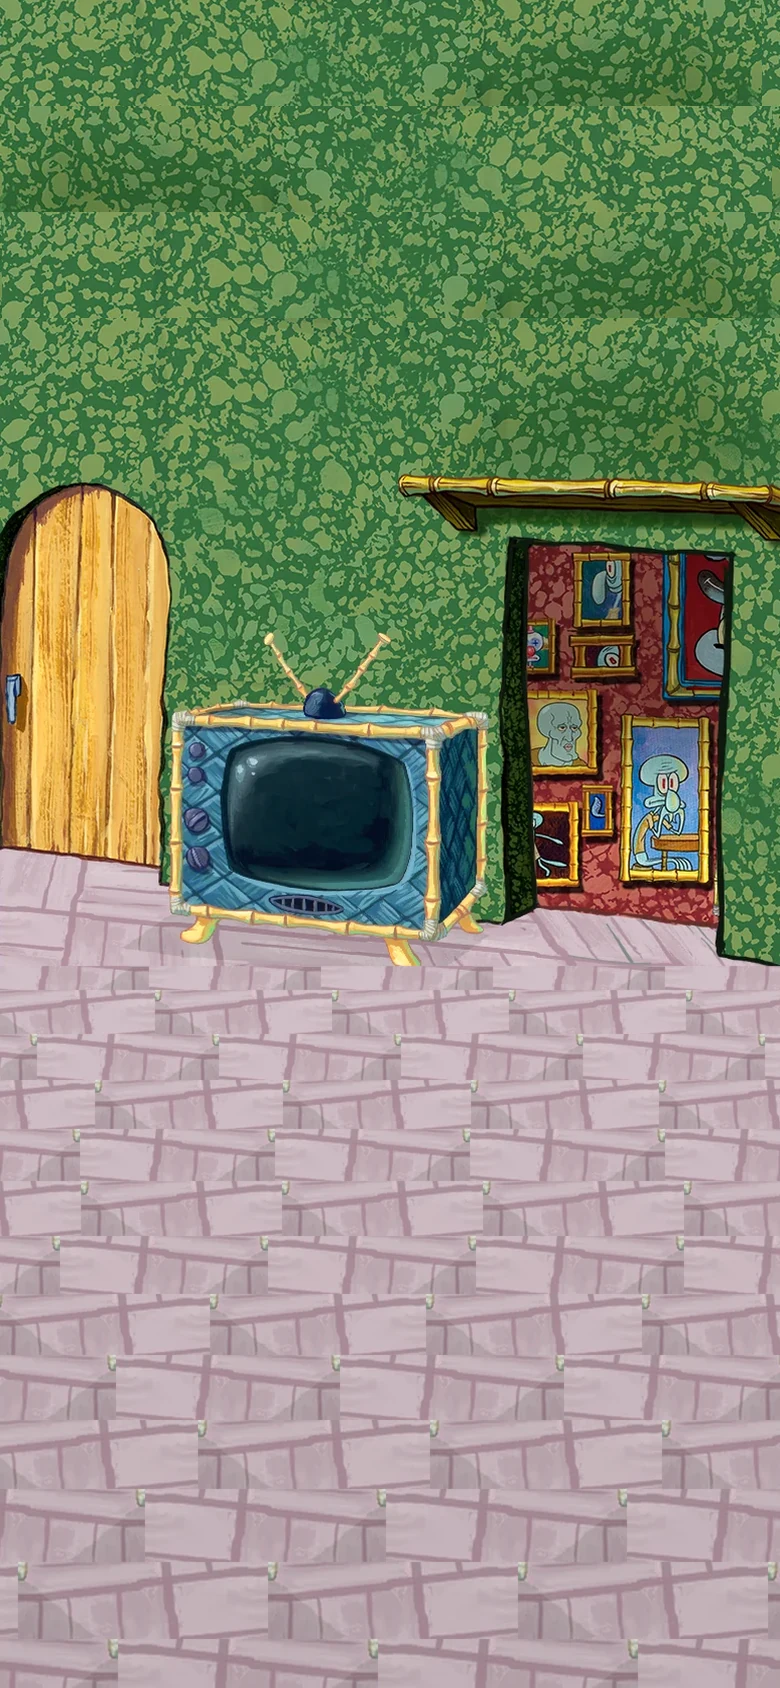
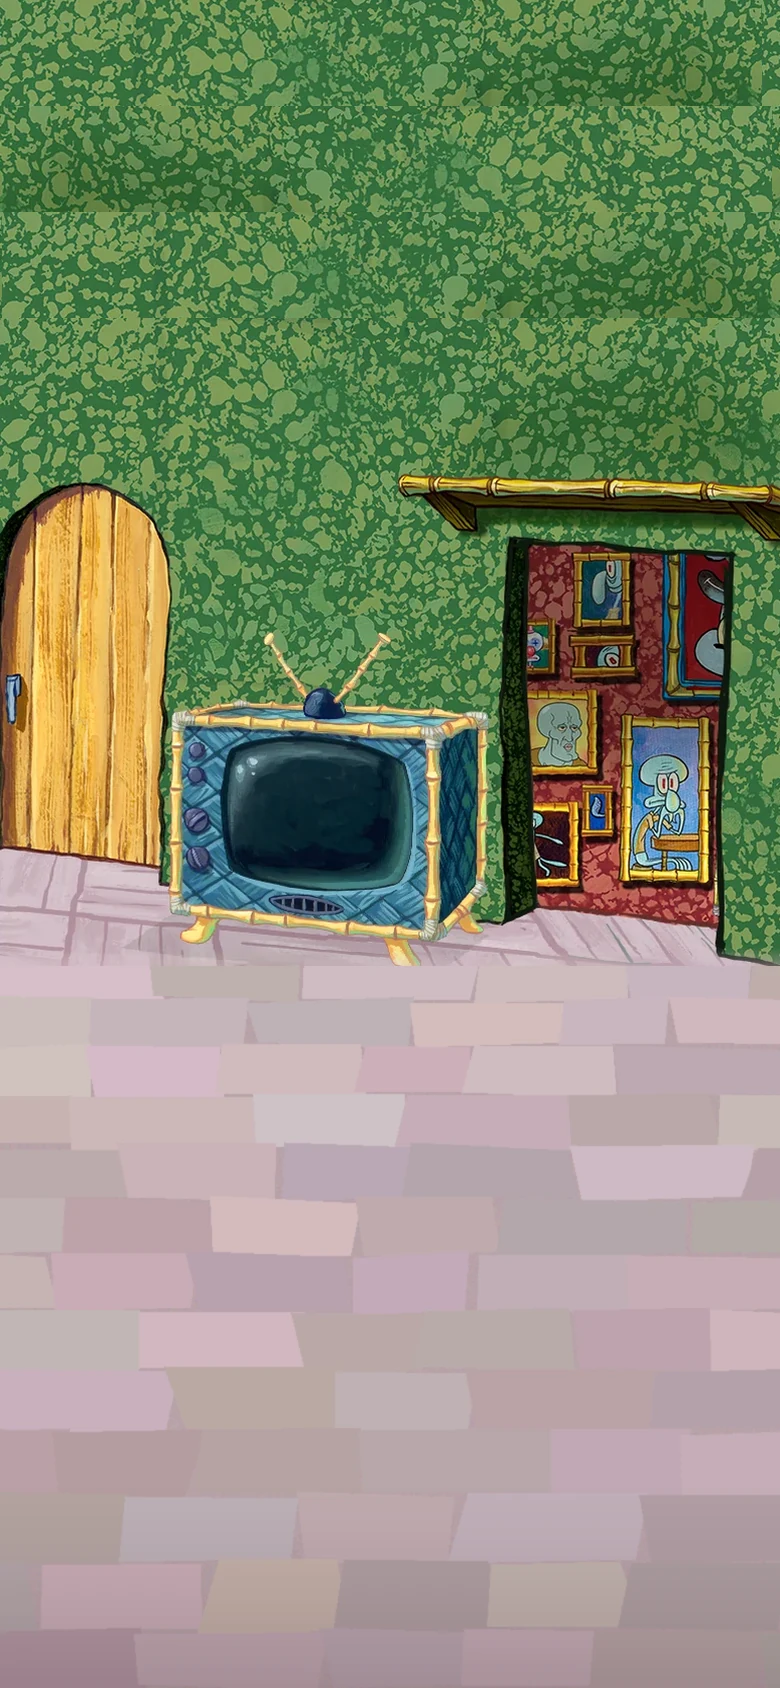
Shift Squidward off the TV and lay real living-room flagstones.
Keep the door, set and gallery in frame, stand him between the TV and the paintings, and bring players forward onto the floor.

Changed region(s): [[0.0, 0.5545, 1.0, 1.0]]

diff --git a/components/room-scene.tsx b/components/room-scene.tsx
@@ -47,11 +47,11 @@ export function RoomScene({
       {overlay ? (
         <div className="absolute left-1/2 top-[3%] z-[20] w-[88%] max-w-[340px] -translate-x-1/2">{overlay}</div>
       ) : null}
-      <div className="absolute left-1/2 top-[58%] z-[8] w-[22%] -translate-x-1/2 -translate-y-full">
+      <div className="absolute left-[56%] top-[56%] z-[8] w-[20%] -translate-x-1/2 -translate-y-full">
         <OctopusFigure className="w-full drop-shadow-[0_10px_8px_rgba(0,20,28,0.35)]" />
       </div>
       {bubble ? (
-        <div className="bubble bubble-left absolute left-[64%] top-[40%] z-[9] w-max max-w-[30%]">
+        <div className="bubble bubble-left absolute left-[68%] top-[38%] z-[9] w-max max-w-[30%]">
           {bubble}
         </div>
       ) : null}

diff --git a/lib/seats.test.ts b/lib/seats.test.ts
@@ -11,7 +11,7 @@ describe("seat layout", () => {
       for (let i = 1; i < xs.length; i++) {
         assert.ok(xs[i] - xs[i - 1] > 8, `${n} people need space`);
       }
-      assert.ok(spots.every((spot) => spot.top > 70 && spot.top < 80));
+      assert.ok(spots.every((spot) => spot.top > 66 && spot.top < 76));
     }
   });
 });

diff --git a/lib/seats.ts b/lib/seats.ts
@@ -12,7 +12,7 @@ export function seatLayout(index: number, total: number) {
   const bow = count <= 2 ? 0 : Math.sin((index / Math.max(count - 1, 1)) * Math.PI) * 2.2;
   return {
     left,
-    top: 74 + bow,
+    top: 70 + bow,
     zIndex: 20 + index,
     scale: SCALE[count] ?? 0.56,
   };

diff --git a/app/globals.css b/app/globals.css
@@ -67,7 +67,7 @@ body {
 .screen-room {
   background:
     linear-gradient(180deg, rgba(20, 16, 10, 0.22) 0%, transparent 14%),
-    url("/interior.webp?v=5") center top / cover no-repeat,
+    url("/interior.webp?v=6") center top / cover no-repeat,
     #c6aeb4;
 }
 
